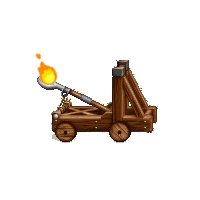
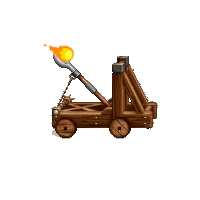
Arreglos trebuchette

Changed region(s): [[0.18, 0.21, 0.81, 0.72]]

diff --git a/Allies/TrebuchetteTower.py b/Allies/TrebuchetteTower.py
@@ -12,7 +12,7 @@ for x in range(3):
                                (90, 100)))
 for x in range(9):
     add_str = str(x)
-    trebuchette_imgs.append(pygame.transform.scale(pygame.image.load(os.path.join("game_assets/Tower_NPC/Trebuchette_imgs", "trebuchette_0" + str(x+1) + ".png")), (128, 128)))
+    trebuchette_imgs.append(pygame.transform.scale(pygame.image.load(os.path.join("game_assets/Tower_NPC/Trebuchette_imgs", "trebuchette_0" + str(x) + ".png")), (128, 128)))
 
 
 class TrebuchetteTower(Tower):
@@ -21,10 +21,10 @@ class TrebuchetteTower(Tower):
         self.tower_imgs=tower_imgs
         self.trebuchette_imgs =trebuchette_imgs
         self.trebuchette_count = 0
-        self.range = 150
+        self.range = 250
         self.inRange = False
         self.left= False
-        self.damage = 40
+        self.damage = 20
 
 
     def draw(self, win):

diff --git a/main.py b/main.py
@@ -19,7 +19,7 @@ class Game:
         self.height = 700
         self.win = pygame.display.set_mode((self.width, self.height))
         self.enemys = []
-        self.attack_towers = [TrebuchetteTower(300, 400), ArcherTower(725, 400), WizardTower( 300,150)]
+        self.attack_towers = [TrebuchetteTower(300, 150), ArcherTower(725, 400), WizardTower( 100,250)]
         self.support_towers = [RangeTower(500, 400), DamageTower(300,600)]
         self.lives = 10
         self.money = 100

diff --git a/Enemies/orc.py b/Enemies/orc.py
@@ -10,7 +10,7 @@ for x in range(7):
 class Orc(Unit):
     def __init__(self):
         super() .__init__()
-        self.max_health = 20
+        self.max_health = 50
         self.health = self.max_health
         self.imgs = imgs[:]
 

diff --git a/Allies/ArcherTower.py b/Allies/ArcherTower.py
@@ -24,7 +24,7 @@ class ArcherTower(Tower):
         self.range = 200
         self.inRange = False
         self.left= False
-        self.damage = 20
+        self.damage = 10
 
 
     def draw(self, win):

diff --git a/Allies/WizardTower.py b/Allies/WizardTower.py
@@ -24,7 +24,7 @@ class WizardTower(Tower):
         self.range = 150
         self.inRange = False
         self.left= False
-        self.damage = 40
+        self.damage = 15
 
 
     def draw(self, win):
